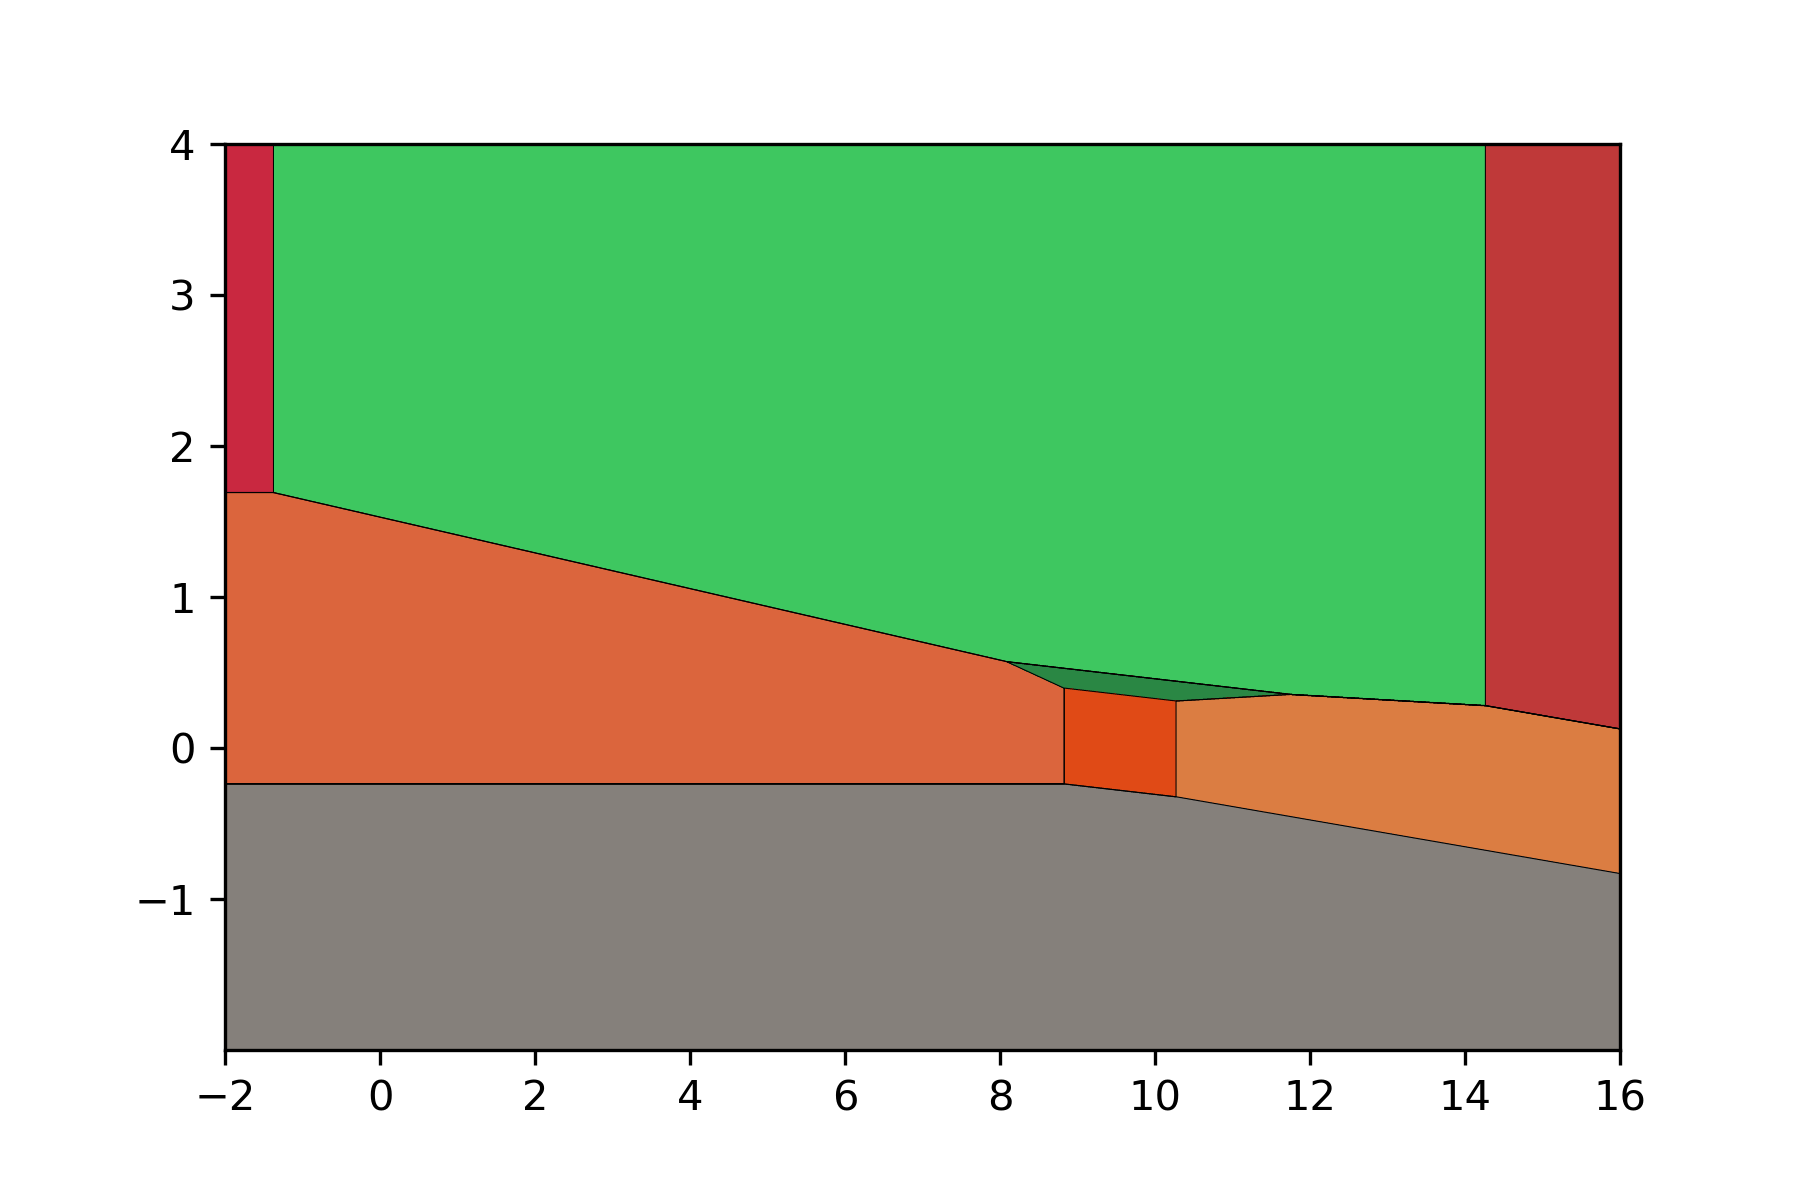
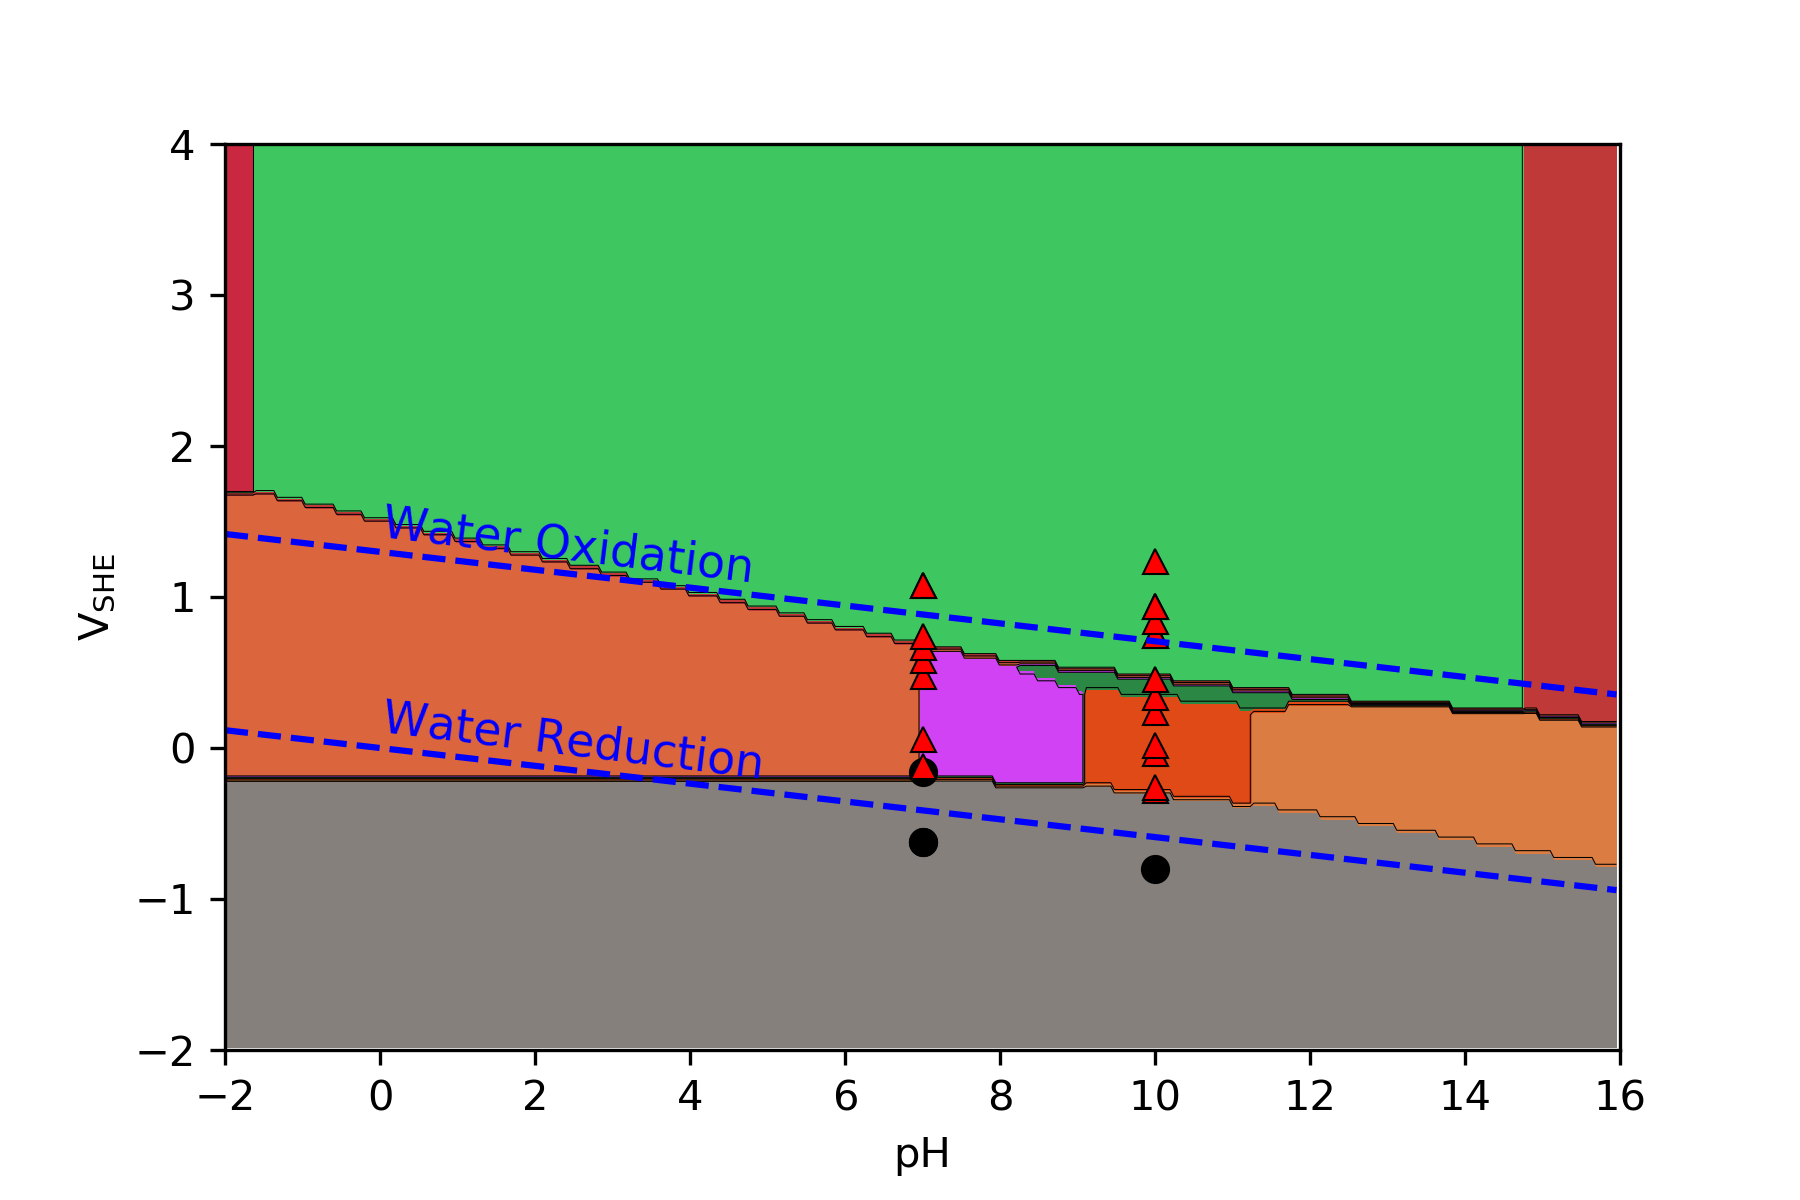
caught up to previous version

diff --git a/src/generate_mesh.py b/src/generate_mesh.py
@@ -24,24 +24,27 @@ GPbO3 = -277.56656
 GPbO4 = -282.08946
 GPbH2 = 290.788
 OH = -157.33514
+CO3 = -527.97896
+H2CO3 = -623.2068
+HCO3 = -586.93152
 
 #set up pH range (consider doing this in input)
 pHstart = -2
 pHend = 16
-dpH = 0.0045
+dpH = 0.045
 pHvec = np.arange(pHstart, pHend, dpH)
 
 #set up potential range(consider doing this in input)
 Vstart = 4
 Vend = -2
-dV = -0.0015
+dV = -0.045
 Vvec = np.arange(Vstart, Vend, dV)
 
 #set up grid
 pH_, V_ = np.meshgrid(pHvec, Vvec)
 Z = np.empty(np.shape(pH_), dtype = object)
 
-def generate(conc = 1.5e-8, carbonates = False):
+def generate(conc = 1.5e-8, carbon = False, phosphate = False):
     print("calculating stable species")
     print("Pb concentration: ", conc)
     i = 0
@@ -110,6 +113,54 @@ def generate(conc = 1.5e-8, carbonates = False):
             if (urxn <= lowpot) :
                 lowpot = urxn
                 stable = "PbO3--"
+                
+            if (carbon):
+                #Hc   
+                urxn = (hc + 2*uH + 6*ue - 2*uH2O - 2*(CO3 + R*T*math.log(carbon)))/3 
+                #print(urxn)
+                if (urxn <= lowpot):
+                    lowpot = urxn
+                    stable = "Hc"
+                
+                #PbCO3
+
+                border1 = 6.35
+                border2 = 10.33
+                if pH < border1:
+                    urxn = PbCO3 + 2*ue + 2*uH - (H2CO3 + R*T*math.log(carbon))
+                elif pH < border2:
+                    urxn = PbCO3 + 2*ue + uH - (HCO3 + R*T*math.log(carbon))
+                else:
+                    urxn = PbCO3 + 2*ue - (CO3 + R*T*math.log(carbon))
+                #print("PbCO3: ",urxn )
+                if (urxn <= lowpot) :
+                    lowpot = urxn
+                    stable = "PbCO3"
+                    
+            if (phosphate): 
+                #ortho
+                
+                h3po4 = -1147.2 + R*T*math.log(phosphate)
+                h2po4 = -1135.119 + R*T*math.log(phosphate)
+                hpo4 = -1094.116 + R*T*math.log(phosphate)
+                po4 = -1025.498 + R*T*math.log(phosphate)
+                
+                border1 = 2.03
+                border2 = 7.19
+                border3 = 12.03
+                
+                if (pH<border1):
+                    urxn = (pbphos + 6*uH + 6*ue - 2*h3po4)/3
+                elif (pH<border2):
+                    urxn = (pbphos + 4*uH + 6*ue - 2*h2po4)/3
+                elif (pH<border3):
+                    urxn = (pbphos + 2*uH + 6*ue - 2*hpo4)/3
+                else:
+                    urxn = (pbphos + 6*ue - 2*po4)/3
+                    
+                if (urxn <= lowpot): 
+                    lowpot = urxn
+                    stable = "Pb3(PO4)2"
                 
             Z[i,j] = stable
             i+=1

diff --git a/src/makeplot.py b/src/makeplot.py
@@ -10,10 +10,16 @@ colordict = {
     "Pb3O4": "#2a8744",
     "Pb++++": "#c92840",
     "HPbO2-": "#db7d42", 
-    "PbO3--": "#bf3939"
+    "PbO3--": "#bf3939",
+    "Hc": "#191cf7",
+    "PbCO3": "#007BA7", 
+    "Pb3(PO4)2": "#d142f5"
     }
 
-def makeplot(pH_, V_, mesh):
+pHexp = [7,	7,	7,	7,	7,	7,	7,	7,	7,	7,	7,	10,	10,	10,	10,	10,	10,	10,	10,	10,	10,	10,	10,	10,	10,	10]
+Vexp = [-0.62,	-0.62,	-0.16,	-0.12,	0.06,	0.48,	0.58,	0.67,	0.74,	1.08,	1.08,	-0.8,	-0.42,	-0.28,	-0.26,	-0.03,	0.02,	0.24,	0.34,	0.46,	0.75,	0.75,	0.84,	0.94,	0.94,	1.24]
+
+def makeplot(pH_, V_, mesh, title, exp = False):
     
     print("making plot")
     
@@ -32,8 +38,32 @@ def makeplot(pH_, V_, mesh):
     print(levels)
     
     fig, ax = plt.subplots()
+    
+    #fill regions
     CS = ax.contourf(pH_, V_, nmesh, levels, colors = colors_)
     ax.contour(pH_, V_, nmesh, colors= 'k', linewidths=0.25, antialiased=True)
-    plt.savefig('plot', dpi = 300)
+    
+    #experimental data
+    if exp: 
+        for i in list(range(3)) + list(range(11,12)):
+            plt.plot(pHexp[i], Vexp[i], 'o', color = 'k')
+        for i in list(range(3,11))+list(range(13,26)):
+            plt.plot(pHexp[i], Vexp[i], '^', color = 'red', markeredgewidth=0.5, markeredgecolor='k')
+    
+    #water stability lines
+    a = 1.299-0.0592*pH_[0]
+    b = -0.059*pH_[0]
+    plt.plot(pH_[0], a, '--', color='b')
+    plt.plot(pH_[0], b, '--', color='b')
+    plt.text(0,1.1,'Water Oxidation', fontsize=11, rotation=-7, color='b')
+    plt.text(0,-0.2,'Water Reduction', fontsize=11, rotation=-7, color='b')
+    
+    #axes    
+    plt.xticks(np.arange(-2,17,2))
+    plt.yticks(np.arange(-2,4.5,1))
+    plt.xlabel('pH')
+    plt.ylabel('$\mathrm{V_{SHE}}$')
+    
+    plt.savefig(title, dpi = 300)
     
     

diff --git a/src/run.py b/src/run.py
@@ -2,6 +2,6 @@ from generate_mesh import generate
 from makeplot import makeplot
 import numpy as np
 
-pH_, V_, mesh = generate(1.5e-4)
+pH_, V_, mesh = generate(conc = 1.5e-3, carbon = None, phosphate = 1e-3)
 print(mesh)
-makeplot(pH_, V_, mesh)
+makeplot(pH_, V_, mesh, 'plot', exp = True)
